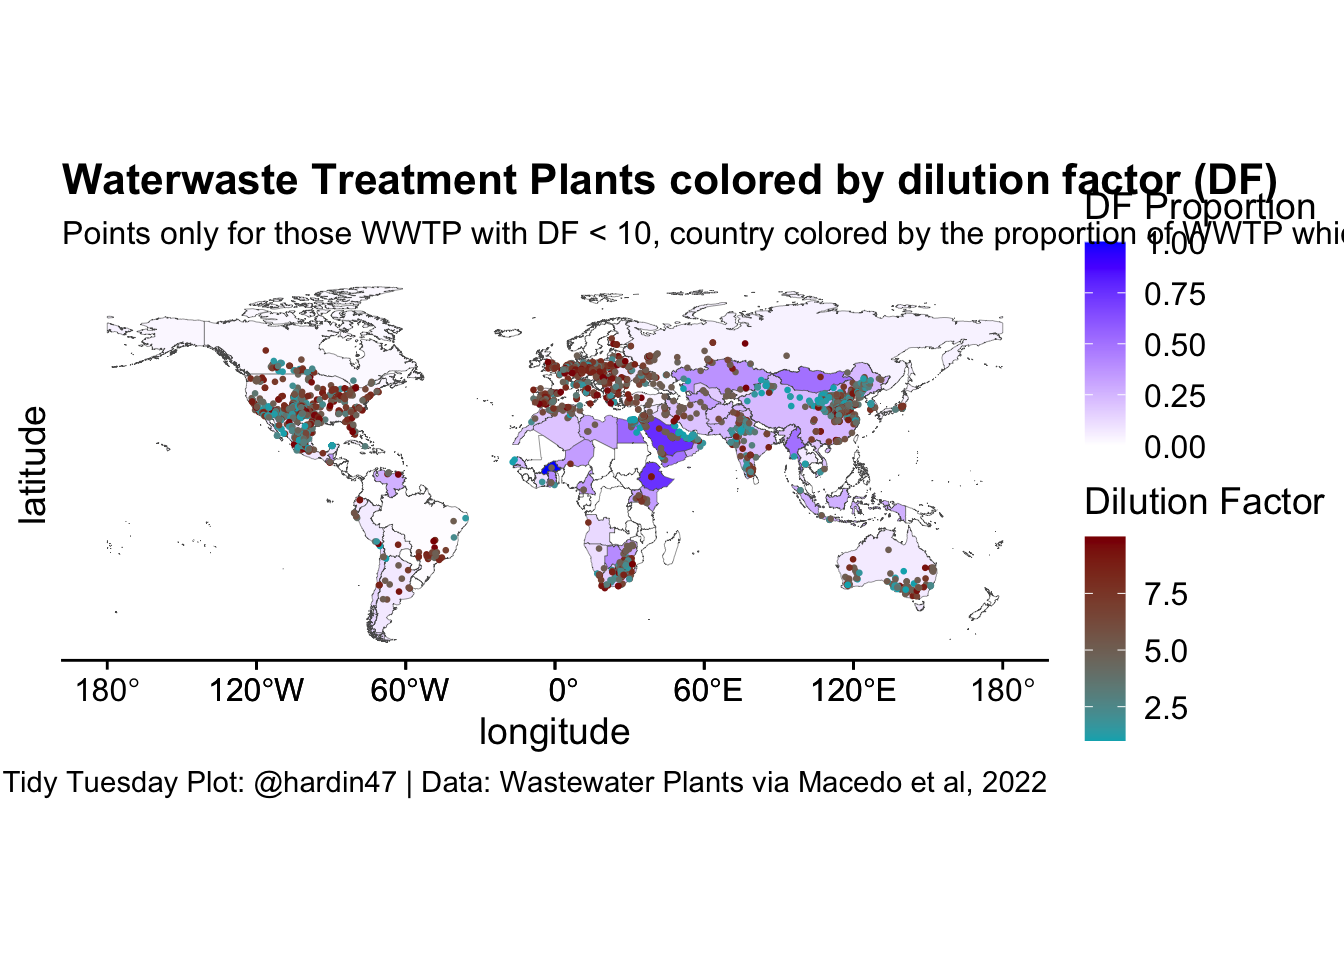
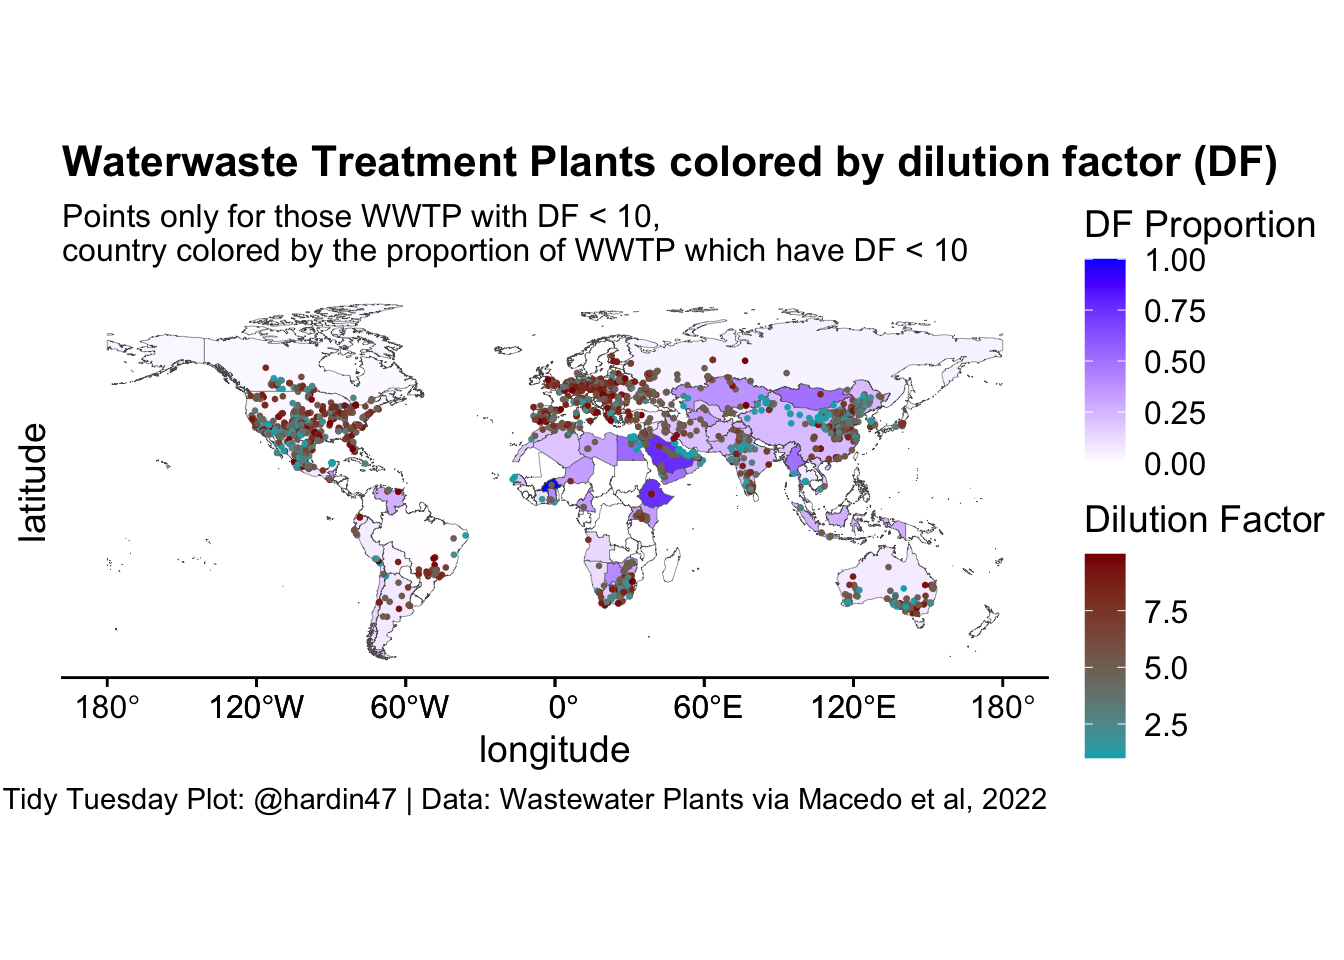
readability

diff --git a/2022-09-20/wastewater.html b/2022-09-20/wastewater.html
@@ -197,7 +197,7 @@ code span.wa { color: #60a0b0; font-weight: bold; font-style: italic; } /* Warni
 <span id="cb5-11"><a href="#cb5-11" aria-hidden="true" tabindex="-1"></a>                                 <span class="at">title =</span> <span class="st">"Dilution Factor"</span>))<span class="sc">+</span></span>
 <span id="cb5-12"><a href="#cb5-12" aria-hidden="true" tabindex="-1"></a>  cowplot<span class="sc">::</span><span class="fu">theme_cowplot</span>() <span class="sc">+</span></span>
 <span id="cb5-13"><a href="#cb5-13" aria-hidden="true" tabindex="-1"></a>  <span class="fu">labs</span>(<span class="at">title =</span> <span class="st">"Waterwaste Treatment Plants colored by dilution factor (DF)"</span>,</span>
-<span id="cb5-14"><a href="#cb5-14" aria-hidden="true" tabindex="-1"></a>       <span class="at">subtitle =</span> <span class="st">"Points only for those WWTP with DF &lt; 10, country colored by the proportion of WWTP which have DF &lt; 10"</span>,</span>
+<span id="cb5-14"><a href="#cb5-14" aria-hidden="true" tabindex="-1"></a>       <span class="at">subtitle =</span> <span class="st">"Points only for those WWTP with DF &lt; 10, </span><span class="sc">\n</span><span class="st">country colored by the proportion of WWTP which have DF &lt; 10"</span>,</span>
 <span id="cb5-15"><a href="#cb5-15" aria-hidden="true" tabindex="-1"></a>       <span class="at">x =</span> <span class="st">"longitude"</span>,</span>
 <span id="cb5-16"><a href="#cb5-16" aria-hidden="true" tabindex="-1"></a>       <span class="at">y =</span> <span class="st">"latitude"</span>,</span>
 <span id="cb5-17"><a href="#cb5-17" aria-hidden="true" tabindex="-1"></a>       <span class="at">caption =</span> <span class="st">"Tidy Tuesday Plot: @hardin47 | Data: Wastewater Plants via Macedo et al, 2022"</span>)</span></code><button title="Copy to Clipboard" class="code-copy-button"><i class="bi"></i></button></pre></div>
